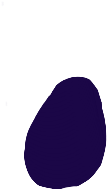
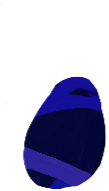
updated cat spell in play.html and updated mannequin for rig

diff --git a/src/tools/play.html b/src/tools/play.html
@@ -1076,11 +1076,11 @@ function sfx(name, opts) { if (audioOk()) OSWAudio.sfx.play(name, opts); }
      CHOMP = A FLASH RING + SPARK FAN + SMALL SHAKE ON chompFrame.
    COLOURS ARE COOL BLUE-VIOLET; SWAP THEM IN CAT_SPELL.colors. */
 const CAT_SPELL = {
-  src: 'assets/images/vfx/cat_spell.png', frames: 10, scale: 0.85, frameTime: 1 / 16,
+  src: 'assets/images/vfx/cat_spell.png', frames: 10, scale: 1.0, frameTime: 1 / 16,
   holds: [1, 1, 1.1, 1.1, 1, 1, 1.4, 1.1, 1, 1.4],          // RELATIVE LENGTH OF EACH FRAME (x frameTime)
   speed: 760, rampTime: 0.12, chompFrom: 5, chompSlow: 0.3, chompFrame: 6, emitUntil: 8,
   forward: 70, castHold: 0.3, cooldown: 0.35,
-  arc: { startHeight: 1.15, endHeight: 0.5, dist: 290, rise: 18, tilt: 1 },   // HEIGHTS x NOVA'S FULL HEIGHT ABOVE HER FEET. IT SPAWNS ABOVE HER HEAD AND CURVES DOWN OVER dist PX OF TRAVEL (rise = SMALL LIFT AT THE START, tilt = HOW MUCH THE HEAD NOSES DOWN ALONG THE CURVE)
+  arc: { startHeight: 1.05, endHeight: 0.7, dist: 290, rise: 12, tilt: 0.5 },   // HEIGHTS x NOVA'S FULL HEIGHT ABOVE HER FEET. IT SPAWNS ABOVE HER HEAD AND CURVES DOWN OVER dist PX OF TRAVEL (rise = SMALL LIFT AT THE START, tilt = HOW MUCH THE HEAD NOSES DOWN ALONG THE CURVE)
   headX: [66, 74, 70, 187, 200, 220, 224, 231, 240, 261], headY: [159, 149, 144, 131, 131, 132, 133, 132, 134, 143],
   headSize: [0.3, 0.45, 0.65, 1, 1, 1, 0.95, 0.9, 0.85, 0.6], backOff: 45,
   spiral: { radius: 42, turns: 1.3, frames: 3, tilt: 0.35 },
